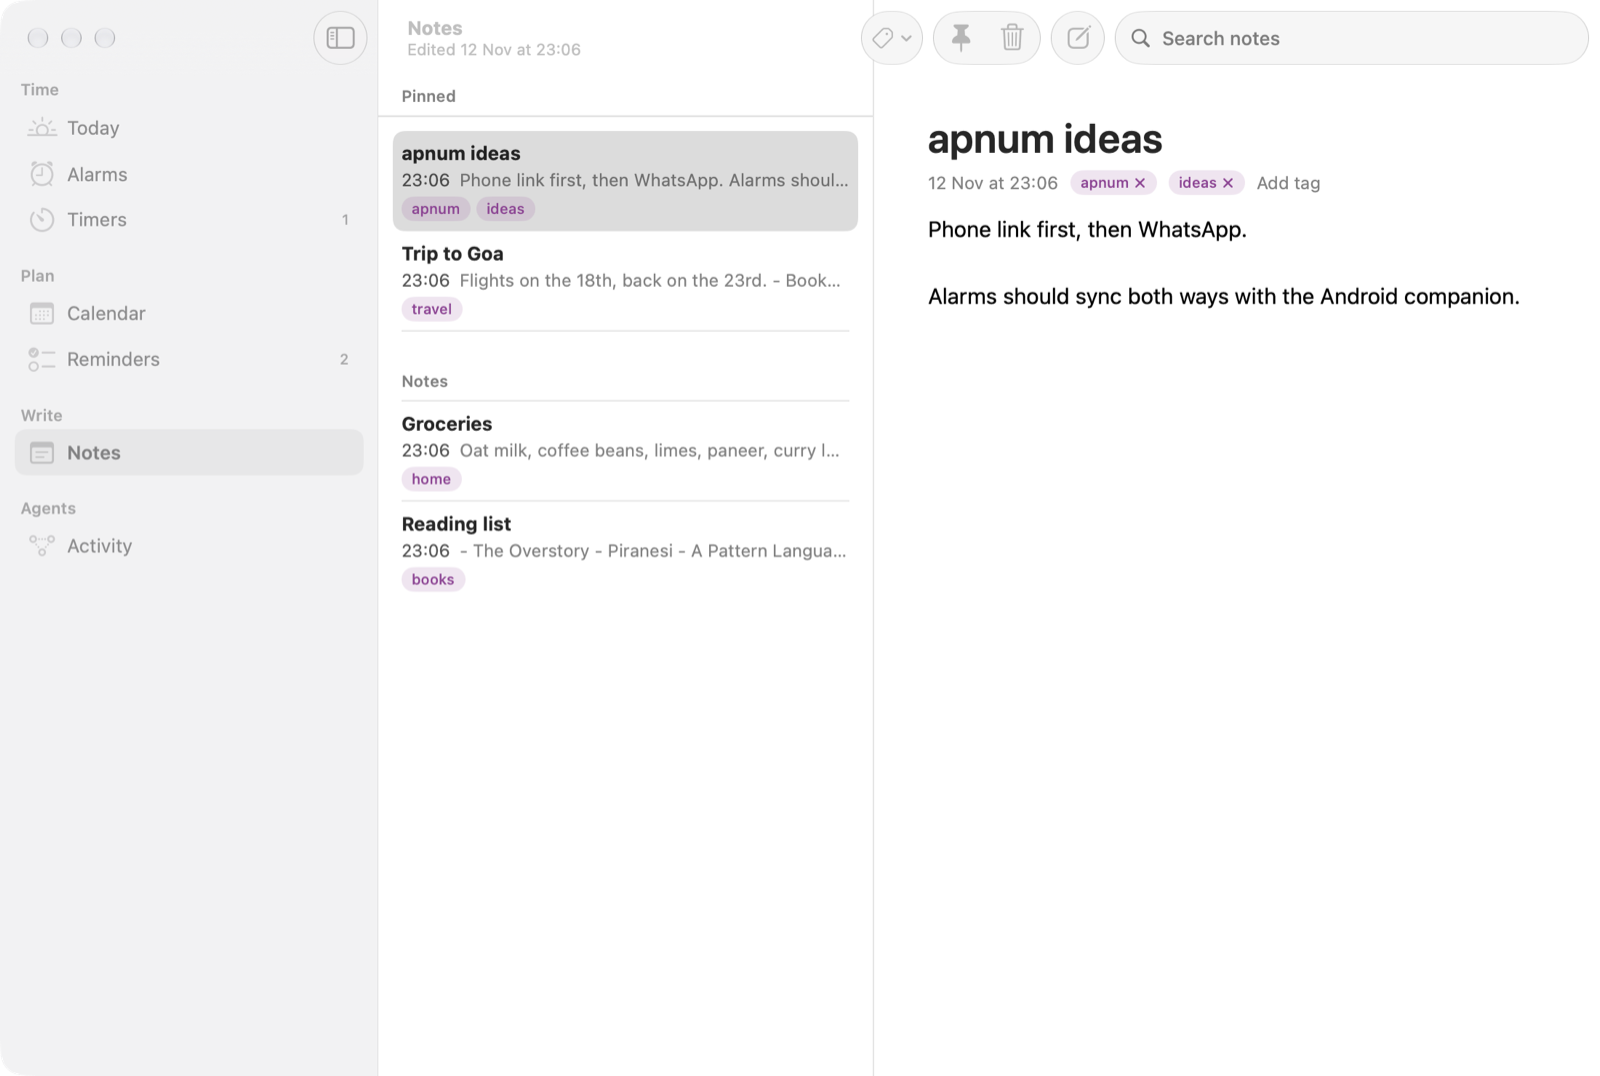
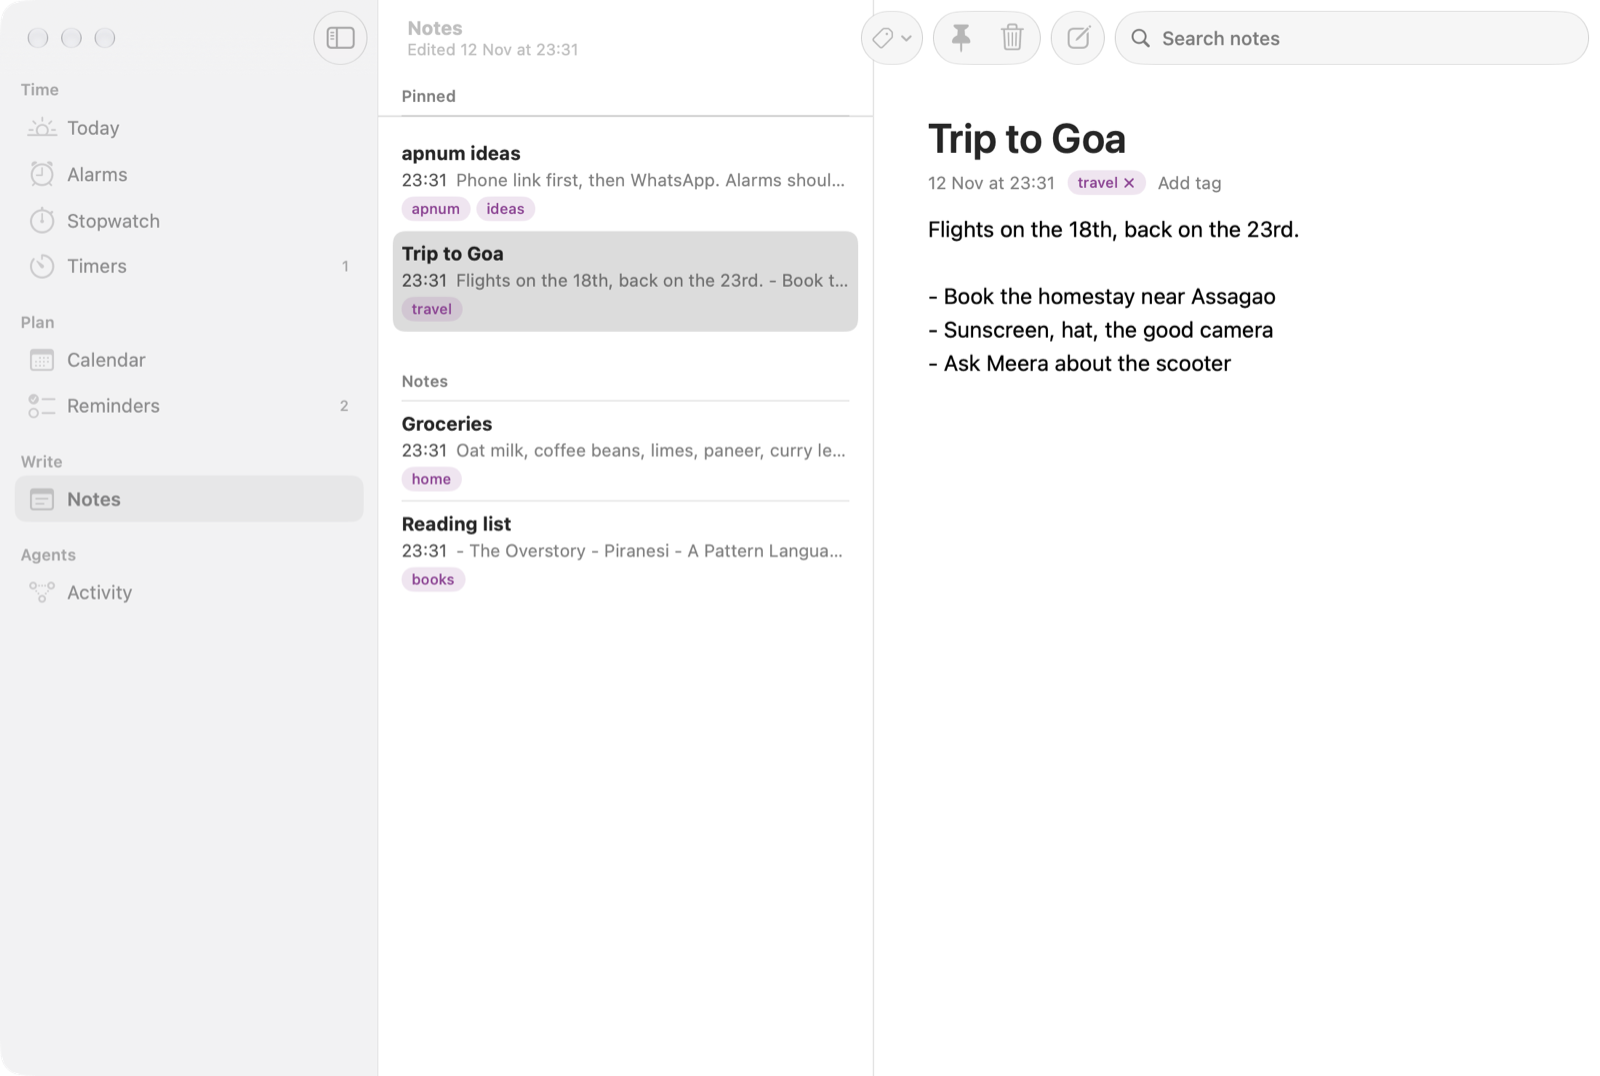
Clock-style Alarms, Stopwatch and Timers; Calendar with Day/Week/Month; refreshed screenshots

diff --git a/Sources/ApnumApp/AlarmsView.swift b/Sources/ApnumApp/AlarmsView.swift
@@ -30,6 +30,15 @@ struct AlarmsView: View {
     }
 
     var body: some View {
+        if ProcessInfo.processInfo.environment["APNUM_PREVIEW"] == "alarm-editor" {
+            // Debug only (scripts/snapshot.sh alarms:alarm-editor): sheets can't be captured.
+            AlarmEditor(alarm: nil).frame(maxWidth: .infinity, maxHeight: .infinity)
+        } else {
+            screen
+        }
+    }
+
+    private var screen: some View {
         VStack(spacing: 0) {
             if model.alarmSettings.mirrorToClockApp, model.alarmMirrorError != nil {
                 AlarmsMirrorBanner()

diff --git a/Sources/ApnumApp/StopwatchView.swift b/Sources/ApnumApp/StopwatchView.swift
@@ -29,6 +29,8 @@ struct StopwatchView: View {
 
     var body: some View {
         VStack(spacing: 0) {
+            // With no laps, centre the stopwatch in the window like the Clock app.
+            if watch.laps.isEmpty && !watch.isRunning { Spacer(minLength: 0) }
             VStack(spacing: 26) {
                 readout
                 HStack(spacing: 20) {

diff --git a/README.md b/README.md
@@ -2,7 +2,9 @@
 
 A lightweight, open-source Mac app for one person's day: alarms, timers, notes, calendar, reminders and Mac controls, built from the start so AI agents can use every feature as a tool. It runs as a normal windowed app with a glance in the menu bar, designed for macOS 26 and Liquid Glass.
 
-![Today, with the day drawn as the sky](docs/screenshots/today.png)
+![Today: the page is the current sky, with your day on glass](docs/screenshots/today.png)
+
+![Today at night](docs/screenshots/today-dark.png)
 
 An Android companion app will follow, bringing the phone's SMS, OTPs, calls, notifications, files, WhatsApp and screen to the Mac, and letting the phone control the Mac in return.
 
@@ -11,19 +13,21 @@ An Android companion app will follow, bringing the phone's SMS, OTPs, calls, not
 | Alarms | Timers |
 |---|---|
 | ![Alarms](docs/screenshots/alarms.png) | ![Timers](docs/screenshots/timers.png) |
-| **Notes** | **Calendar** |
-| ![Notes](docs/screenshots/notes.png) | ![Calendar](docs/screenshots/calendar.png) |
-| **Reminders** | **Activity: every tool agents can use** |
-| ![Reminders](docs/screenshots/reminders.png) | ![Activity](docs/screenshots/activity.png) |
+| **Stopwatch** | **Calendar** |
+| ![Stopwatch](docs/screenshots/stopwatch.png) | ![Calendar](docs/screenshots/calendar.png) |
+| **Notes** | **Reminders** |
+| ![Notes](docs/screenshots/notes.png) | ![Reminders](docs/screenshots/reminders.png) |
+| **Activity: every tool agents can use** | |
+| ![Activity](docs/screenshots/activity.png) | |
 
 ## Features
 
 | Area | Mac app | Phone (planned) |
 |---|---|---|
 | Alarms | apnum's own alarm clock; optional mirror into the macOS Clock app via Shortcuts | Full alarm clock in the companion app, synced both ways |
-| Timers | Countdown timers and a stopwatch | Synced |
+| Timers and stopwatch | Modelled on the macOS Clock app: recents, typed durations, rings, laps | Synced |
 | Notes | Markdown files you own, with tags and search | Notes screen in the companion app, synced |
-| Calendar and Reminders | Your real Apple Calendar and Reminders (iCloud, Google and other accounts included) | Through the same Google account |
+| Calendar and Reminders | Your real Apple Calendar (Day, Week, Month) and Reminders, iCloud and Google accounts included | Through the same Google account |
 | Mac control | Volume, media keys, clipboard, lock, sleep, battery, open apps, run Shortcuts | Control the Mac from the phone |
 | Phone | — | SMS, OTP, call control, notifications, files, WhatsApp, screen mirroring (scrcpy) |
 | Agents | Every feature is a tool with a JSON schema | MCP server for Claude Code |
